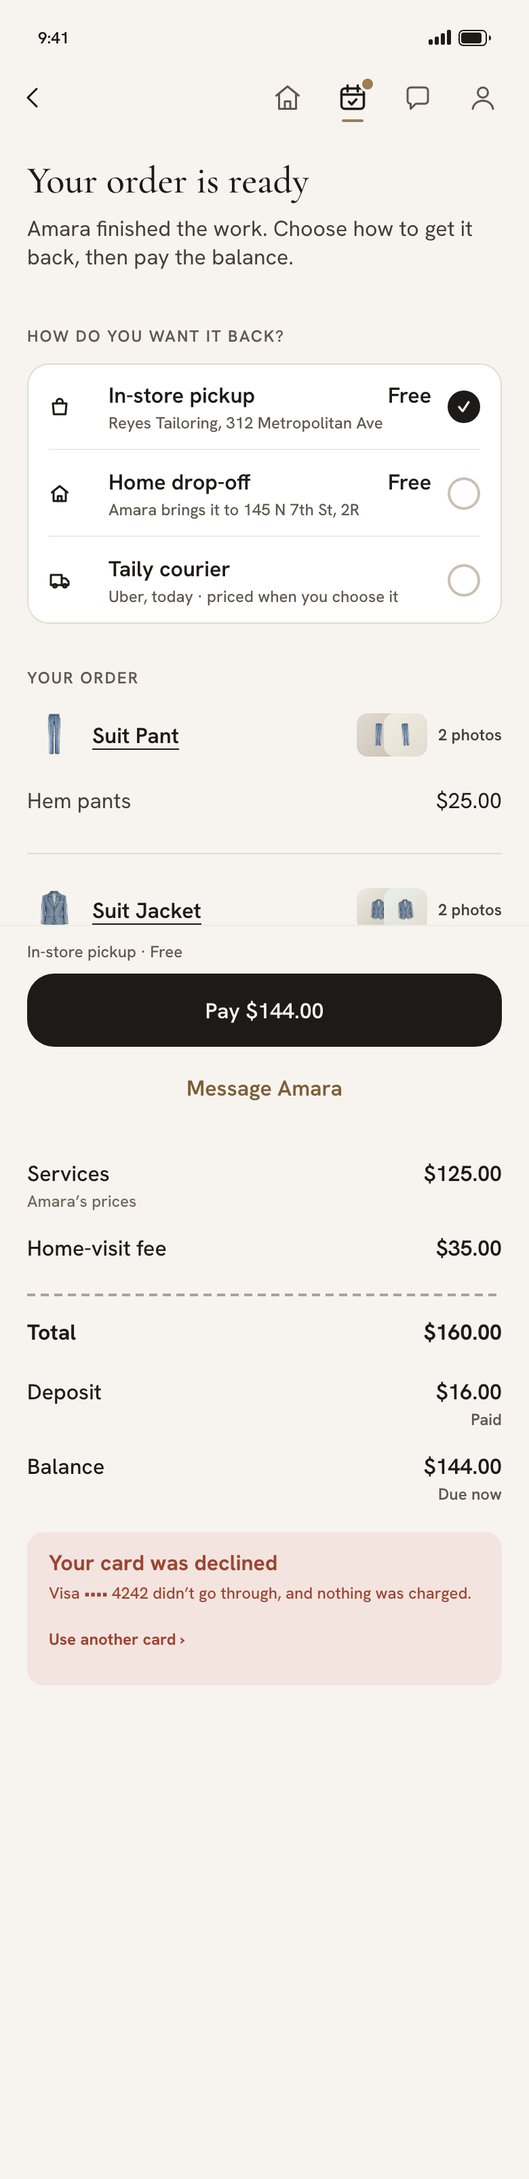
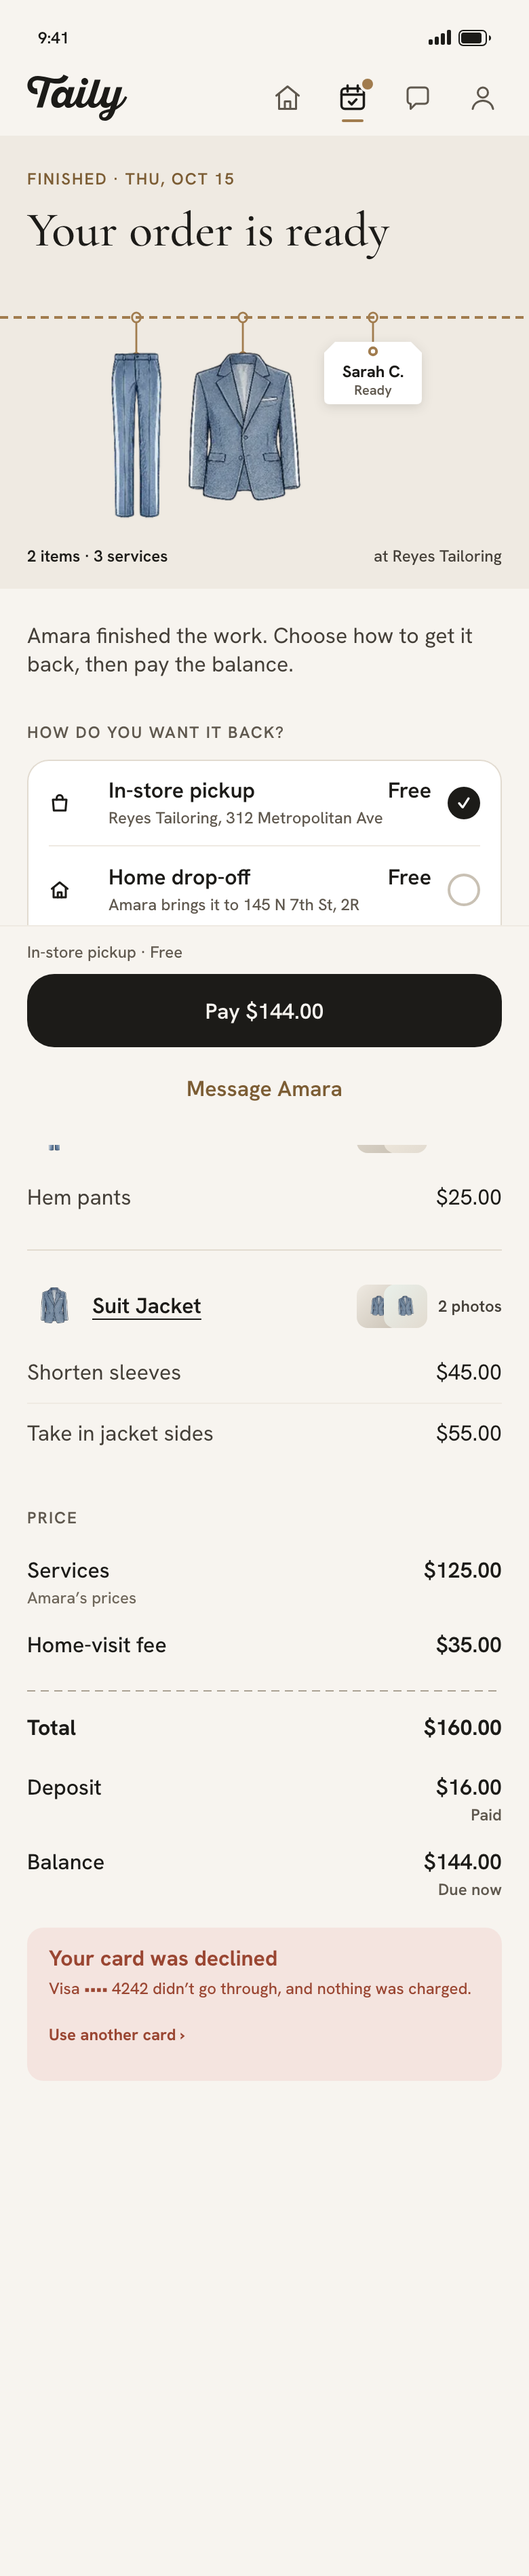
v5 K-24: "Your order is ready" = R3 — linen stage with the title and the thread hang stage
c-ready's head is now linenStage (eyebrow "Finished · <ready day>", serif title) carrying the
K-22 hang stage (Sarah's "Ready" tag, item/service caption, K-21 sliding rail at 4+); the body
moves to the page ground above "How do you want it back?". Nothing else on c-ready changes.
Visual baselines accepted: c-ready, --pickup-only, --courier-loading, --courier, --courier-failed,
--refund, --pay, --pay-failed, --processing.
npm run check: ALL PASS. study-run: 39/39.

diff --git a/js/screens/c-ready.js b/js/screens/c-ready.js
@@ -8,9 +8,11 @@
 import { register, render as go } from '../app.js';
 import { state, T, tailorById, returnOffer, returnAddress, priceChangeView } from '../state.js';
 import {
-  chrome, headingRow, statusHero, customerBreakdown, moneyRows, courierCard, optionRow, actionBar, banner, emptyState,
+  chrome, headingRow, customerBreakdown, moneyRows, courierCard, optionRow, actionBar, banner, emptyState,
   sheetOverlay, cta, toast, esc, changeList, withPhotos, wirePhotoViewer, wireGarmentDocs, textLink, sectionHead,
+  linenStage, hangStage, returnedItems, andList,
 } from '../components.js';
+import { fmtDay } from '../dates.js';
 import * as A from '../account.js';
 import { withLatency } from '../sim.js';
 import { fmtExact } from '../money.js';
@@ -117,16 +119,26 @@ function view() {
   /* one way back offered → nothing to choose (R4-1-C-05, D-113) */
   const only = offered.length === 1 ? offered[0] : null;
   const LINE_FOR = { pickup: `pick it up at ${esc(t.shopName)}`, dropoff: `${esc(first)} brings it to your door`, courier: 'a courier brings it today' };
-  const hero = headingRow(statusHero({
-    variant: 'ready', pill: false, title: 'Your order is ready',   // K-17 R1: the title says it, no "Ready" pill
-    body: zero && refund > 0
+  const body = zero && refund > 0
       ? `${esc(first)} finished the work. Your final total is less than your deposit, so the difference comes back to your card.`   // R5: the amount is on the button and in Price
       : zero
         ? (only ? `${esc(first)} finished the work. Nothing is left to pay, then ${LINE_FOR[only]}.` : `${esc(first)} finished the work. Choose how to get it back. Nothing is left to pay.`)
         : only
           ? `${esc(first)} finished the work. Pay the balance, then ${LINE_FOR[only]}.`
-          : `${esc(first)} finished the work. Choose how to get it back, then pay the balance.`,
-  }));
+          : `${esc(first)} finished the work. Choose how to get it back, then pay the balance.`;
+  /* K-24 (R3): the linen stage carries the title — caps eyebrow + serif title on the linen, the K-22 hang stage under the stitch,
+     the body on the page ground directly above the choice. The tag says Ready; the clothes are at the shop until a way back is picked. */
+  const items = returnedItems(a);
+  const services = items.reduce((n, g) => n + g.services.length, 0);
+  const plural = (n, w) => `${n} ${w}${n === 1 ? '' : 's'}`;
+  const sarah = `${state.customer.first} ${(state.customer.last ?? '').charAt(0)}.`.replace(/ \.$/, '');
+  const readyAt = [...a.history].reverse().find((h) => h.status === 'ready')?.at;
+  const stage = hangStage({
+    types: items.map((g) => g.type), tag: [sarah, 'Ready'], left: `${plural(items.length, 'item')} · ${plural(services, 'service')}`, right: `at ${t.shopName}`,
+    label: `${plural(items.length, 'item')} ready: ${andList(items.map((g) => g.type))}, hung on a rail with a tag: ${sarah}, Ready`,
+  });
+  const hero = `${linenStage({ eyebrow: readyAt ? `Finished · ${fmtDay(readyAt)}` : 'Finished', title: 'Your order is ready', rail: stage, label: 'Your order is ready' })}
+  <p class="t-body ${ID}__intro">${body}</p>`;
   /* C-11: one decline pattern (D-140) — the banner sits directly above the action bar, the way forward is another card */
   const alert = failed && !zero
     ? `<div class="${ID}__alert">${banner({ tone: 'error', title: 'Your card was declined', text: `${esc(pillCard)} didn’t go through, and nothing was charged.`, actionLabel: 'Use another card', actionAct: 'pay' })}</div>`

diff --git a/index.html b/index.html
@@ -52,7 +52,7 @@
 "./js/screens/c-pay.js": "./js/screens/c-pay.js?v=2b50f15ce9",
 "./js/screens/c-phone.js": "./js/screens/c-phone.js?v=6c29d7d808",
 "./js/screens/c-price-change.js": "./js/screens/c-price-change.js?v=e2b6108805",
-"./js/screens/c-ready.js": "./js/screens/c-ready.js?v=1649c9e8c8",
+"./js/screens/c-ready.js": "./js/screens/c-ready.js?v=59bc838691",
 "./js/screens/c-request.js": "./js/screens/c-request.js?v=17b08aa5c9",
 "./js/screens/c-review.js": "./js/screens/c-review.js?v=6b0d07dcb9",
 "./js/screens/c-tailor.js": "./js/screens/c-tailor.js?v=2902722480",
@@ -136,7 +136,7 @@
 <link rel="stylesheet" href="css/screens/c-booking.css?v=140d800770">
 <link rel="stylesheet" href="css/screens/t-adjust.css?v=6e408ea2a4">
 <link rel="stylesheet" href="css/screens/c-price-change.css?v=796a134a2f">
-<link rel="stylesheet" href="css/screens/c-ready.css?v=7562945146">
+<link rel="stylesheet" href="css/screens/c-ready.css?v=2d1ba88e19">
 <link rel="stylesheet" href="css/screens/c-complete.css?v=79d55e168c">
 <link rel="stylesheet" href="css/screens/c-review.css?v=131e3145e4">
 <link rel="stylesheet" href="css/screens/c-messages.css?v=0361831cd8">

diff --git a/css/screens/c-ready.css b/css/screens/c-ready.css
@@ -1,7 +1,9 @@
 /* c-ready — C10 pick a way back, then pay the balance. Layout only; hero, option rows, courier card, money rows, banner, action bar and sheet are shared. M7: groups are .sec; the radio rows are one .card--list. */
 .c-ready { gap: 0; padding-bottom: var(--space-40); }
-.c-ready .status-hero__body { color: var(--neutral-700); font-weight: 400; text-wrap: pretty; }
-.c-ready > .sec:first-of-type { margin-top: var(--rhythm-major); }
+/* K-24 (R3): linenStage carries the title + the hang stage; the body sits on the page ground above the choice */
+.c-ready > .linen-stage .hang { margin-top: var(--space-8); }
+.c-ready__intro { margin: var(--rhythm-block) 0 0; color: var(--neutral-700); text-wrap: pretty; }
+.c-ready > .sec:first-of-type { margin-top: var(--rhythm-section); }
 .c-ready__alert { margin-top: var(--rhythm-group); }
 .c-ready__group { display: flex; flex-direction: column; }
 .c-ready__group .option-row { min-height: 64px; }

diff --git a/components.html b/components.html
@@ -66,7 +66,7 @@
 "./js/screens/c-pay.js": "./js/screens/c-pay.js?v=2b50f15ce9",
 "./js/screens/c-phone.js": "./js/screens/c-phone.js?v=6c29d7d808",
 "./js/screens/c-price-change.js": "./js/screens/c-price-change.js?v=e2b6108805",
-"./js/screens/c-ready.js": "./js/screens/c-ready.js?v=1649c9e8c8",
+"./js/screens/c-ready.js": "./js/screens/c-ready.js?v=59bc838691",
 "./js/screens/c-request.js": "./js/screens/c-request.js?v=17b08aa5c9",
 "./js/screens/c-review.js": "./js/screens/c-review.js?v=6b0d07dcb9",
 "./js/screens/c-tailor.js": "./js/screens/c-tailor.js?v=2902722480",

diff --git a/docs/v5/DECISIONS.md b/docs/v5/DECISIONS.md
@@ -347,3 +347,5 @@ Format: `- **D-##** (M#, role) DEFAULTED — <decision>. Why: <reason>. Overrule
 
 - **K-23** (Kevin, Oct 2026) LOCKED — **Adding a garment on Home (c-job) no longer opens the services sheet** (reverses D-226 / P2-3). A tap on a garment tile (or its +) only adds the item: the tile shows its count, focus stays on that tile's +, and the item appears under "Your items" with "Choose what needs doing". The services sheet opens only when that row is tapped (same sheet as before). A service is still required per item: Next flags every item without one ("Choose a service") and jumps to the first. Flow `c-job--add-opens-sheet` → `c-job--added`.
 - **D-252** (K-16..K-22, Figma sync) DEFAULTED — Figma catch-up sync for K-16..K-22 (last sync 345d314, K-14 + K-15). (1) **29 frames re-drawn in place** (ids kept) — every frame in `scripts/screens.json` whose `ref/v5` baseline changed since 345d314: c-tailors--loading, c-tailors, c-tailor, c-request--suggested / --declined / --expired, c-booking--cant-make-it, c-price-change (+ --item-added / --item-removed / --unchanged / --docs / --photo-viewer), c-ready, c-complete, c-booking--docs, c-booking--completed, to-profile, to-done, t-shop, t-request--expired, t-job--accepted, t-job, t-job--completed, t-job--waiting (+ --unchanged), t-job--docs, t-job--visit, t-payout. (2) **9 new frames** for review-worthy states that the inventory keeps as code-only (`kind: 'state'`), inserted in journey order right after their anchor frame in the existing sections (later frames shifted 490 right): c-tailors--no-reviews, c-tailors--shop (after c-tailors), c-book--preset (after c-book), c-complete--many (after c-complete), c-booking--returning-pickup-many (after c-booking--docs, before --completed), to-profile--card-line, to-profile--photo-missing (after to-profile), t-job--completed-rated, t-job--completed-many (after t-job--completed); ids in `scripts/screens.json` → `v5.screens`. (3) Same build method as D-53 / D-97 / D-119 / D-234 (absolutely positioned layers from the live DOM, text fill / size / family and rect fill / stroke / radius bound to Taily variables, master instances where the slots match, status bar / logo cloned, garment art as image fills from the hashes already in the file). The extractor gained: dashed borders and repeating-gradient rails drawn as dashed lines (6 / 4, 3 / 2 for 1px) instead of solid rules; blurred box-shadows / drop-shadow filters as DROP_SHADOW effects; inline SVGs that embed `<image>` / `<text>` (the K-22 hang slots) split by z-order into thread + eyelet (behind) → garment image → loop (over), and tag text as real text; horizontally scrolling rails (K-21) drawn at rest as a clipping frame "rail (scrolls)" with 3 + a peek and the mask as a 24px linen fade; long textarea values wrap at 318. Static end state of all motion (stitch sewn, tags hung, garments dropped). (4) **Masters** on Components (V5 grid, ids in `v5.components`): `v5 / Tailor Row` rebuilt in place as the K-19 Q card (State = Default · No reviews · Shop · Declined; the old Rush caption variant became Shop; TEXT props Name / Card line / Estimate); new `v5 / Request Strip` (K-16 state strip, Tone = Warn · Urgent · Action · Done · Calm, props Lead / Right / Show right), `v5 / Tag` (tag-rail tag, props Name / Services, garment as image fill), `v5 / Linen Stage` (Rail = Fit (3 or fewer) · Slide (4 or more), built from Tag instances) and `v5 / Hang Stage` (Rail = Fit · Slide, thread loop over the stitch, eyelet behind the garment, pinned customer tag); each description carries the code rules. (5) Spot checks (get_screenshot vs `node scripts/v5/shoot.mjs .shots/k31`): c-booking--returning-pickup-many, t-job--completed-rated, c-tailors match the repo shots; no fix needed. Fallbacks: radius 4 (c-complete label inner dashed ring) and 10 (photo-stack thumb ring) unbound — no Taily / Radius token (radius/4 exists only in the separate "Taily v6" collection, not used); --shadow-float / tag drop-shadow are literal effects (the file has no effect styles); the edge-fade gradient's transparent stop is an unbound colour (alpha 0), its opaque stop is bound to neutral-100; frames still draw tailor rows, tags and stages as layers (no instances) like every earlier sync. Why: K-16..K-22 changed 29 synced screens and added the linen / hang stages and the Q card, which Figma did not show. Overrule: delete the 9 new frames and the 4 new master cells, or swap the drawn rows / stages in the frames for the new masters.
+
+- **K-24** (Kevin, Oct 2026) LOCKED — **c-ready "Your order is ready" = R3** from https://claude.ai/artifact/GnQRDRD85RwKt4rtCrzaDp (scratchpad k32/): the linen stage carries the title — `linenStage({ eyebrow: "Finished · <day it was marked ready>", title: "Your order is ready", rail: hangStage(...) })` with the K-22 thread hang stage (tag "Sarah C. · Ready", caption "N items · M services" / "at <shop>", K-21 sliding rail at 4+), then the existing body on the page ground directly above "How do you want it back?". Everything else on c-ready unchanged. Cost accepted: the way-back choice starts ~284 px lower.
